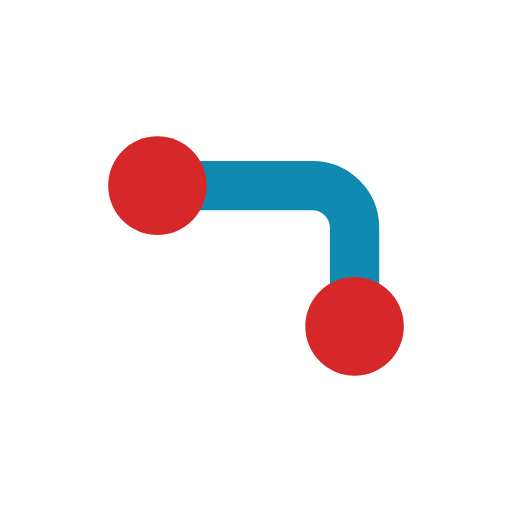
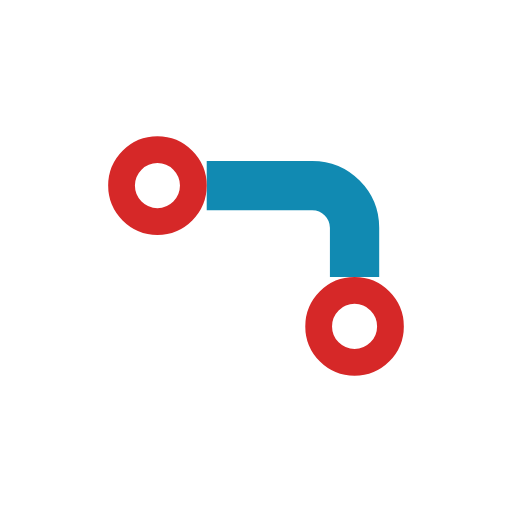
pOZ-Link: new name, and endpoints drawn as O's
Name. APP_NAME carries it, as section 2 promised, so Home, the page title,
the manifest and the Won card all follow from one constant. capacitor.config
and the Android strings.xml were updated to match, being the only places
outside TypeScript that hold a name of their own.

Three identifiers deliberately unchanged, none of them visible to a player
and each costly to move: the Android application id (changing it installs a
second app rather than upgrading the first, and abandons the progress on the
device), the colorlink:v1: storage prefix (changing it discards every saved
best time), and the repo and Pages URL (changing it breaks the published
address).

Endpoints. Now the letter O: a ring 0.15 of a cell thick inside the unchanged
0.62 outer diameter, both fractions so it holds from a 20px Master cell to a
72px Easy one.

The catch is that a path is drawn to the centre of its endpoint cell, so a
connected endpoint would fill its own hole and collapse back into a dot the
moment it was joined. The renderer repaints the cell beneath the hole —
background and tint both, so it matches its neighbours — before stroking the
ring. The line then reads as running into the O and stopping at its inner
edge, which is the whole point of the change.

Colour-blind labels keep the filled dot: a numeral needs a solid field, and
at a 20px cell the hole is 6px across. Legibility beats the letterform.

The icon follows the same idea, with the connecting line stopping at each
[…]

diff --git a/src/render/BoardRenderer.ts b/src/render/BoardRenderer.ts
@@ -403,14 +403,42 @@ export class BoardRenderer {
       const radius = baseRadius * scale;
       const fill = pathColor(pair.color);
 
+      const ringWidth = BOARD_STYLE.endpointRingWidth * cellPx * scale;
+      const holeRadius = Math.max(0, radius - ringWidth);
+      const labelled = this.options.colorBlindLabels;
+
       for (const cell of [pair.a, pair.b]) {
         const { x, y } = cellCenter(this.layout, cell);
-        context.fillStyle = fill;
-        context.beginPath();
-        context.arc(x, y, radius, 0, Math.PI * 2);
-        context.fill();
 
-        if (this.options.colorBlindLabels) {
+        // The path is already drawn and runs to the cell centre, so the middle
+        // of the O has to be reclaimed or the letter fills in the moment a
+        // line is attached. Repainting the cell underneath keeps the hole
+        // matching its neighbours, tint included.
+        if (holeRadius > 0) {
+          if (labelled) {
+            // A numeral needs a solid field. At a 20px cell the hole is 6px
+            // across, far too small to read a digit in, so colour-blind mode
+            // keeps the filled dot and gives up the O.
+            context.fillStyle = fill;
+          } else {
+            context.fillStyle = this.colors.cellBackground;
+            context.beginPath();
+            context.arc(x, y, holeRadius, 0, Math.PI * 2);
+            context.fill();
+            context.fillStyle = withAlpha(fill, BOARD_STYLE.tintAlpha);
+          }
+          context.beginPath();
+          context.arc(x, y, holeRadius, 0, Math.PI * 2);
+          context.fill();
+        }
+
+        context.strokeStyle = fill;
+        context.lineWidth = ringWidth;
+        context.beginPath();
+        context.arc(x, y, radius - ringWidth / 2, 0, Math.PI * 2);
+        context.stroke();
+
+        if (labelled) {
           context.fillStyle = labelColorOn(fill);
           context.font = `bold ${BOARD_STYLE.labelSize}px ${UI_FONT_STACK}`;
           context.textAlign = 'center';

diff --git a/src/render/theme.ts b/src/render/theme.ts
@@ -40,6 +40,12 @@ export const UI_FONT_STACK =
 /** Board drawing constants from spec 10. */
 export const BOARD_STYLE = {
   endpointDiameter: 0.62,
+  /**
+   * Endpoints are drawn as the letter O, not a filled dot (the O of pOZ-Link).
+   * A fraction of the cell, like every other measurement here, so the ring
+   * stays legible from a 20px Master cell up to a 72px Easy one.
+   */
+  endpointRingWidth: 0.15,
   strokeWidth: 0.36,
   pathAlpha: 0.92,
   activePathAlpha: 1,

diff --git a/index.html b/index.html
@@ -20,7 +20,7 @@
     <meta name="description" content="Connect the dots. Fill the board." />
     <link rel="icon" type="image/svg+xml" href="./favicon.svg" />
     <link rel="apple-touch-icon" href="./apple-touch-icon.png" />
-    <title>Color Link</title>
+    <title>pOZ-Link</title>
   </head>
   <body>
     <div id="app"></div>

diff --git a/src/engine/engine.ts b/src/engine/engine.ts
@@ -14,7 +14,7 @@ import {
 import { isPathComplete, isWon } from './queries';
 
 /**
- * The rules of Color Link, exactly as tabulated in spec 5.2.
+ * The rules of pOZ-Link, exactly as tabulated in spec 5.2.
  *
  * Pure: no DOM, no randomness, no timers. The app owns the clock; the engine
  * owns the board.

diff --git a/src/app/config.ts b/src/app/config.ts
@@ -1,5 +1,5 @@
 /** Display name of the app. Rename here and nowhere else. */
-export const APP_NAME = 'Color Link';
+export const APP_NAME = 'pOZ-Link';
 
 /** Human-facing version string, shown in Settings. */
 export const APP_VERSION = '1.0.0';

diff --git a/docs/pOZle_color-link_spec_v1.0.md b/docs/pOZle_color-link_spec_v1.0.md
@@ -919,3 +919,49 @@ The two padding constants must stay in step with the CSS. `.screen--play` sets
 verification suite rotates the viewport and asserts nothing scrolls and the
 controls do not sit on top of the board — the check that caught a 4px overflow
 while this was being written.
+
+### Renamed to pOZ-Link, and endpoints are now O's (Tob, 28 August 2026)
+
+**The working title in assumption 14 is settled: pOZ-Link.** It lives in
+`APP_NAME` exactly as section 2 promised, so the Home masthead, the page title,
+the web app manifest and the Won card all follow from one constant. The two
+places outside TypeScript that carry a name of their own — `capacitor.config.json`
+and the Android `strings.xml` — were updated to match.
+
+Three identifiers deliberately did **not** change, because each would cost more
+than it is worth and none is visible to a player:
+
+- The Android application id stays `com.oubata.colorlink`. Changing it installs
+  a second, separate app rather than upgrading the first, and abandons whatever
+  progress is on the device.
+- The storage prefix stays `colorlink:v1:` (section 11.2). Changing it discards
+  every saved best time and unlock.
+- The repository and its Pages URL stay `color-link`, so the published address
+  keeps working.
+
+**Endpoints are drawn as the letter O, not a filled dot.** This revises the
+section 10 board rendering: an endpoint is a ring of `endpointRingWidth` = 0.15
+of a cell, inside the unchanged 0.62 outer diameter, giving a hole 0.32 of a
+cell across. Both numbers are fractions of the cell, so the O holds from a 20px
+Master cell to a 72px Easy one.
+
+The subtlety is that a path is drawn to the centre of its endpoint cell, so a
+connected endpoint would fill its own hole and the O would collapse back into a
+dot the moment it was joined. The renderer therefore repaints the cell beneath
+the hole — background and colour tint both, so it matches its neighbours —
+before stroking the ring. The line then reads as running into the O and stopping
+at its inner edge.
+
+**Colour-blind labels keep the filled dot.** A numeral needs a solid field, and
+at a 20px cell the hole is 6px across, far too small to read a digit in. With
+labels on, the centre is filled with the endpoint colour and the numeral sits on
+it exactly as before. Legibility beats the letterform.
+
+The app icon follows the same idea: two O's joined by a line that stops at each
+ring's outer edge rather than running to its centre, so the letters stay hollow
+without needing anything painted over them.
+
+The verification suites locate endpoints by sampling the canvas, and were
+sampling each cell's centre — which is now a hole. `SAMPLE_CELL` in
+`scripts/verify/helpers.mjs` samples the ring as well and keeps the most
+saturated hit.

diff --git a/CLAUDE.md b/CLAUDE.md
@@ -1,4 +1,4 @@
-# Color Link — conventions for Claude Code
+# pOZ-Link — conventions for Claude Code
 
 - The spec is `docs/pOZle_color-link_spec_v1.0.md`. It is the source of truth. If code and spec disagree, the spec wins; if the spec is ambiguous or wrong, stop and ask rather than guess.
 - Build in the phase order of spec section 17. Do not start a phase until the previous phase's definition of done is met. Report at each milestone.

diff --git a/README.md b/README.md
@@ -1,4 +1,4 @@
-# Color Link
+# pOZ-Link
 
 A grid path-connection puzzle. Drag a line from each coloured dot to its twin;
 lines may not cross, and the board is only solved when every cell is covered.
